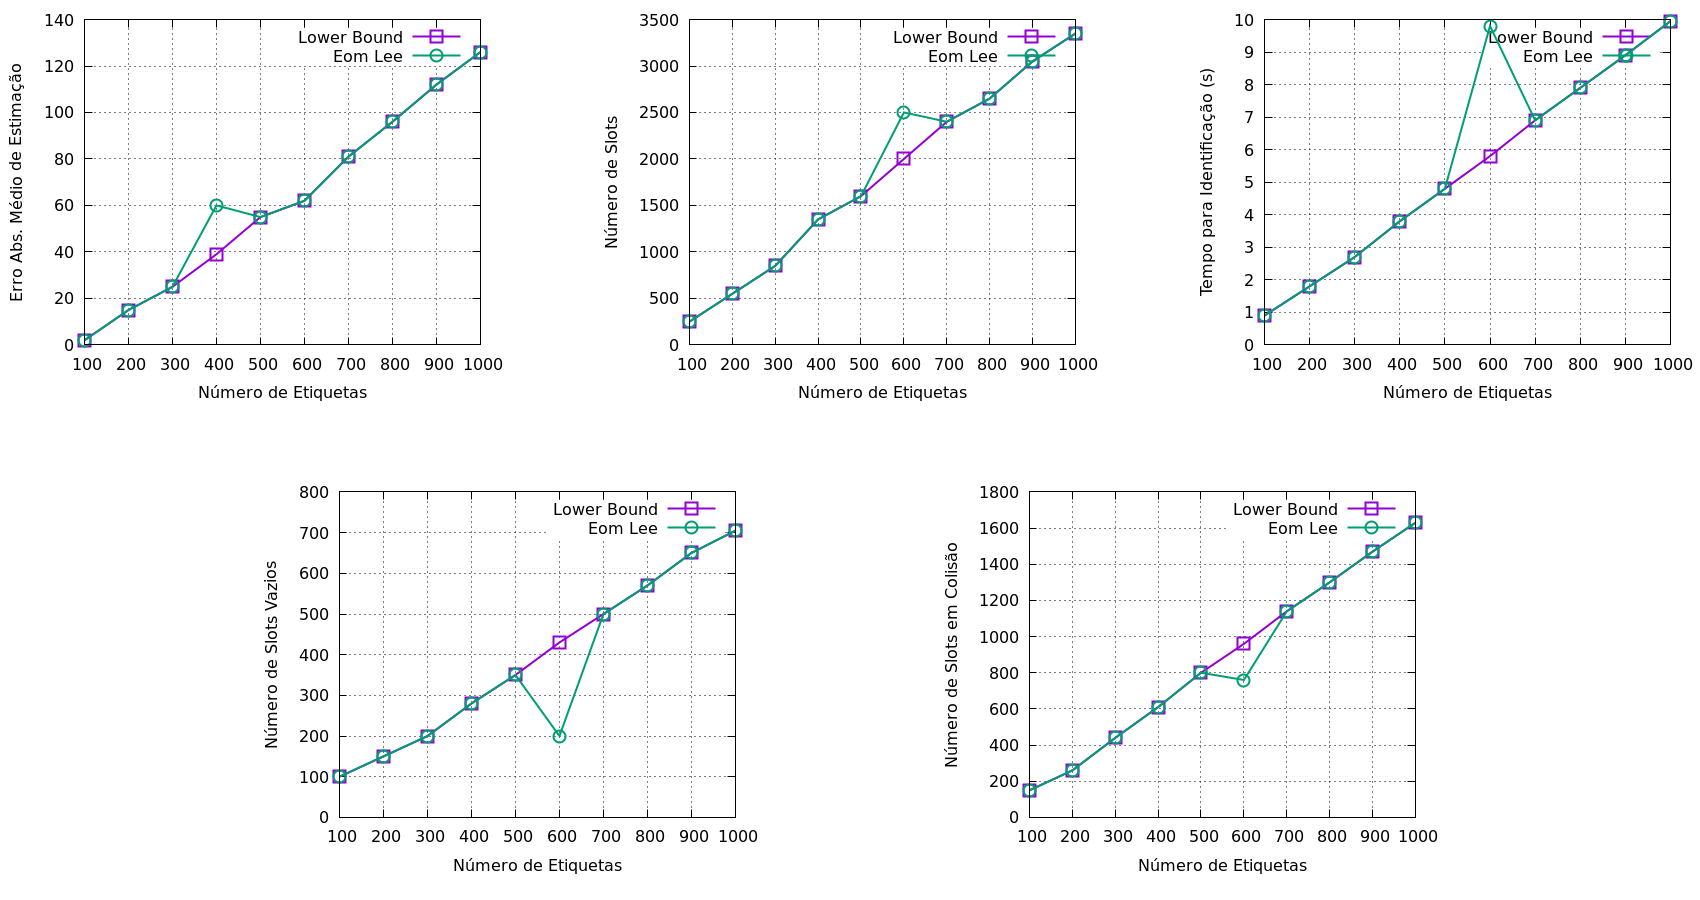
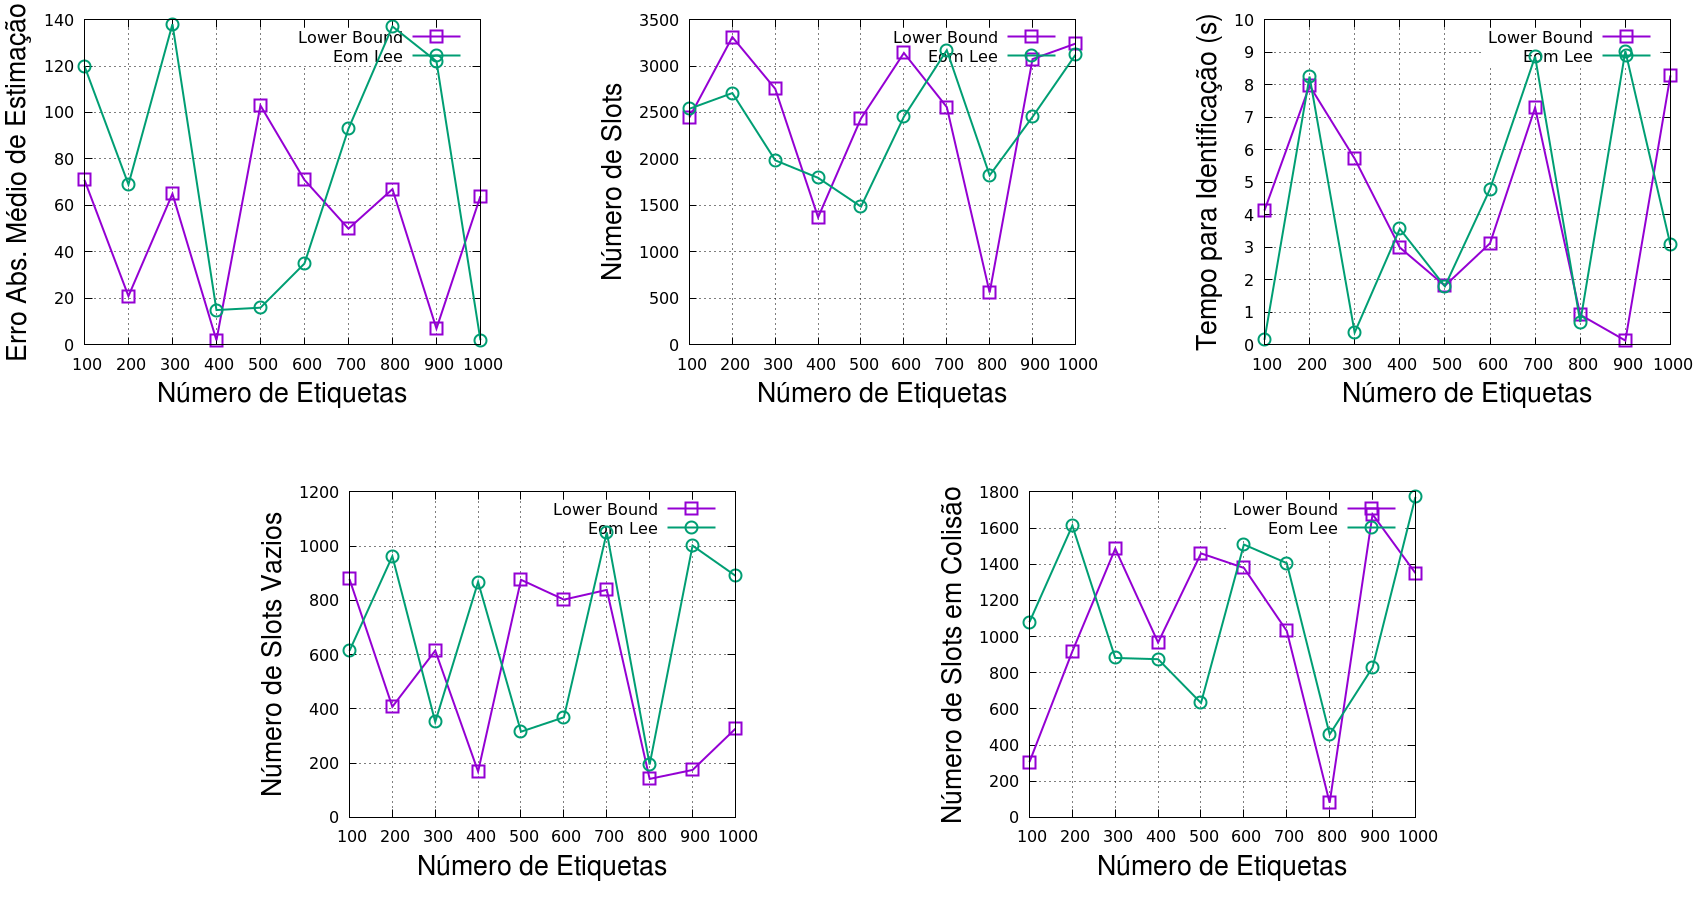
Generate random data

diff --git a/estimators.cpp b/estimators.cpp
@@ -1,7 +1,11 @@
 #include "estimators.h"
+#include <stdlib.h>
 #include <set>
 #include <iostream>
+#include <iomanip>
 #include <fstream>
+
+const int W = 15;
 
 EstimationParameters::EstimationParameters() {}
 
@@ -15,17 +19,12 @@ EstimationParameters::EstimationParameters(int starting_tags, int increase_value
 
 EstimationResult::EstimationResult(int tags_amount) {
 	this->tags_amount = tags_amount;
+	this->tags_amounts = new int[tags_amount];
+	this->final_frames = new int[tags_amount];
 	this->empty_slots = new int[tags_amount];
 	this->success_slots = new int[tags_amount];
 	this->collision_slots = new int[tags_amount];
 	this->simulation_times = new double[tags_amount];
-}
-
-EstimationResult::~EstimationResult() {
-	delete[] this->empty_slots;
-	delete[] this->success_slots;
-	delete[] this->collision_slots;
-	delete[] this->simulation_times;
 }
 
 Estimator::Estimator(string name, string file_name, string plot_options) {
@@ -46,14 +45,60 @@ string Estimator::get_plot_options() const {
 	return plot_options;
 }
 
+void Estimator::write_dat_file(EstimationResult result) const {
+	ofstream datFile(this->get_file_name());
+
+	datFile << "# " << this->get_name() << endl;
+	datFile << "# " << setw(W - 2) << "tags" << setw(W) << "error" << setw(W) << "slots" << setw(W) << "time" << setw(W) << "empty" << setw(W) << "collision" << endl;
+	datFile << "#" << endl;
+	
+	for(int i = 0; i < result.tags_amount; ++i) {
+		int tags = result.tags_amounts[i];
+		int final_frames = result.final_frames[i];
+		
+		int empty_slots = result.empty_slots[i];
+		int success_slots = result.success_slots[i];
+		int collision_slots = result.collision_slots[i];
+		double simulation_times = result.simulation_times[i];
+		
+		int total_slots = empty_slots + success_slots + collision_slots;
+		
+		int error = abs(tags - final_frames);
+
+		datFile << setw(W) << tags << setw(W) << error << setw(W) << total_slots << setw(W) << simulation_times << setw(W) << empty_slots << setw(W) << collision_slots << endl;
+	}
+
+	datFile.close();
+}
+
 LowerBound::LowerBound() : Estimator("lower-bound", "lower_bound.dat", "w lp lw 2 pt 4 ps 2 t 'Lower Bound'") {}
 void LowerBound::simulate(const EstimationParameters &parameters) const {
 	EstimationResult result(10);
-	ofstream datFile(this->get_file_name());
-	datFile << "# test" << endl;
+
+	for(int i = 0; i < 10; ++i) {
+		result.tags_amounts[i] = 100 * (i + 1);
+		result.final_frames[i] = result.tags_amounts[i] + rand() % 140;
+		result.empty_slots[i] = rand() % 1100;
+		result.collision_slots[i] = rand() % 1800;
+		result.success_slots[i] = rand() % (3500 - (result.collision_slots[i] + result.empty_slots[i]));
+		result.simulation_times[i] = 10 * (rand() / (RAND_MAX + 1.0));
+	}
+
+	write_dat_file(result);
 }
 
 EomLee::EomLee() : Estimator("eom-lee", "eom_lee.dat", "w lp lw 2 pt 6 ps 2 t 'Eom Lee'") {}
 void EomLee::simulate(const EstimationParameters &parameters) const {
 	EstimationResult result(10);
+
+	for(int i = 0; i < 10; ++i) {
+		result.tags_amounts[i] = 100 * (i + 1);
+		result.final_frames[i] = result.tags_amounts[i] + rand() % 140;
+		result.empty_slots[i] = rand() % 1100;
+		result.collision_slots[i] = rand() % 1800;
+		result.success_slots[i] = rand() % (3500 - (result.collision_slots[i] + result.empty_slots[i]));
+		result.simulation_times[i] = 10 * (rand() / (RAND_MAX + 1.0));
+	}
+
+	write_dat_file(result);
 }

diff --git a/plot.cpp b/plot.cpp
@@ -40,6 +40,10 @@ int main(int argc, char* argv[]) {
 
 	srand(time(NULL));
 
+	for(Estimator* estimator : whitelisted) {
+		estimator->simulate(parameters);
+	}
+
 	g.cmd("set terminal pngcairo size 1700,900");
 	g.cmd("set output 'graph.png'");
 	g.cmd("set multiplot");
@@ -50,8 +54,8 @@ int main(int argc, char* argv[]) {
 	g.cmd("set mxtics 1");
 	g.cmd("set xr [100:1000]");
 	g.cmd("set yr [0:*]");
-	g.cmd("set xlabel 'Número de Etiquetas'");
-	g.cmd("set ylabel 'Erro Abs. Médio de Estimação'");
+	g.cmd("set xlabel 'Número de Etiquetas' font 'Helvetica,20'");
+	g.cmd("set ylabel 'Erro Abs. Médio de Estimação' font 'Helvetica,20'");
 	g.cmd("set origin 0.0,0.55");
 	plot_graph(2);
 	g.cmd("set ylabel 'Número de Slots'");

diff --git a/estimators.h b/estimators.h
@@ -13,12 +13,13 @@ struct EstimationParameters {
 
 struct EstimationResult {
 	int tags_amount;
+	int *tags_amounts;
+	int *final_frames;
 	int *empty_slots;
 	int *success_slots;
 	int *collision_slots;
 	double *simulation_times;
 	EstimationResult(int tags_amount);
-	~EstimationResult();
 };
 
 class Estimator {
@@ -29,6 +30,7 @@ class Estimator {
 	public:
 		Estimator(string name, string file_name, string plot_options);
 		virtual void simulate(const EstimationParameters &parameters) const = 0;
+		void write_dat_file(EstimationResult result) const;
 		
 		string get_name() const;
 		string get_file_name() const;
